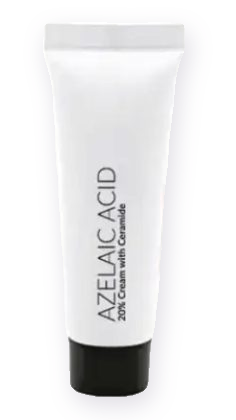
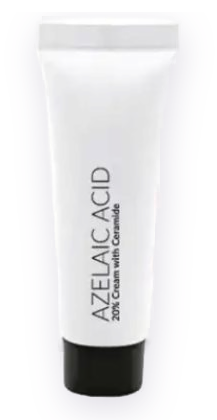
Add lavender-ready skincare product cutouts
V0-Chat-Id: cEvwzgyr9ly

diff --git a/lib/skincare-routine-data.ts b/lib/skincare-routine-data.ts
@@ -89,14 +89,14 @@ export const PRODUCTS: Record<ProductId, Product> = {
   },
   olay: {
     name: "Olay Regenerist Vitamin C + Peptide 24 Hydrating Moisturizer",
-    image: "/products/olay.jpg",
+    image: "/products/olay.png",
     short: "A brightening gel-cream with vitamin C, niacinamide and peptides.",
     ingredients: ["Vitamin C (3-O-Ethyl Ascorbic Acid)", "Niacinamide", "Peptides (Matrixyl)", "Panthenol"],
     help: "A hydrating gel-cream that works while you sleep to brighten dullness, plump the look of fine lines, and wake you up with soft, rested-looking skin.",
   },
   aze: {
     name: "SkinFX Azelaic Acid 20% Cream with Ceramide",
-    image: "/products/azelaic.jpg",
+    image: "/products/azelaic.png",
     short: "A 20% azelaic acid cream cushioned with barrier-supporting ingredients.",
     ingredients: ["Azelaic Acid (20%)", "Ceramide AP", "Centella Asiatica", "Squalane", "Shea Butter", "Panthenol", "Sodium Hyaluronate", "Allantoin", "Licorice Root Extract"],
     help: "Azelaic acid is one of the gentlest actives. It helps calm redness, fade marks and keep breakouts down, while ceramides and squalane cushion it so skin stays soft. It does not make skin sun-sensitive, though daily sunscreen is still a must.",
@@ -112,7 +112,7 @@ export const PRODUCTS: Record<ProductId, Product> = {
   },
   pim: {
     name: "QuickFX Pimple Eraser Cream",
-    image: "/products/pimple.jpg",
+    image: "/products/pimple.png",
     short: "A targeted leave-on treatment for individual pimples.",
     ingredients: ["Salicylic Acid (1%)", "Glycolic Acid (0.5%)", "Niacinamide (0.5%)", "Zinc Oxide", "Vitamin C"],
     help: "Dries up pimples, helps prevent dark scars and keeps pores clear, while the toner and moisturizer around it keep the rest of your face comfortable.",
